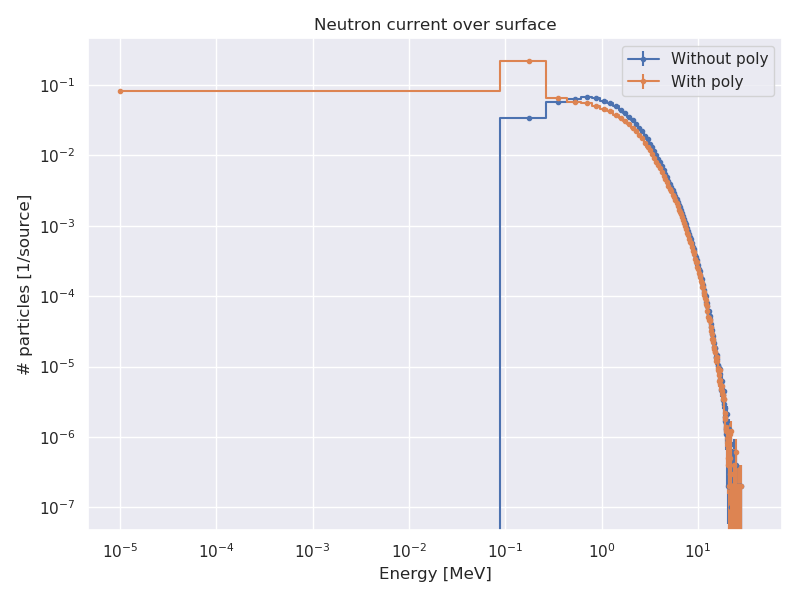
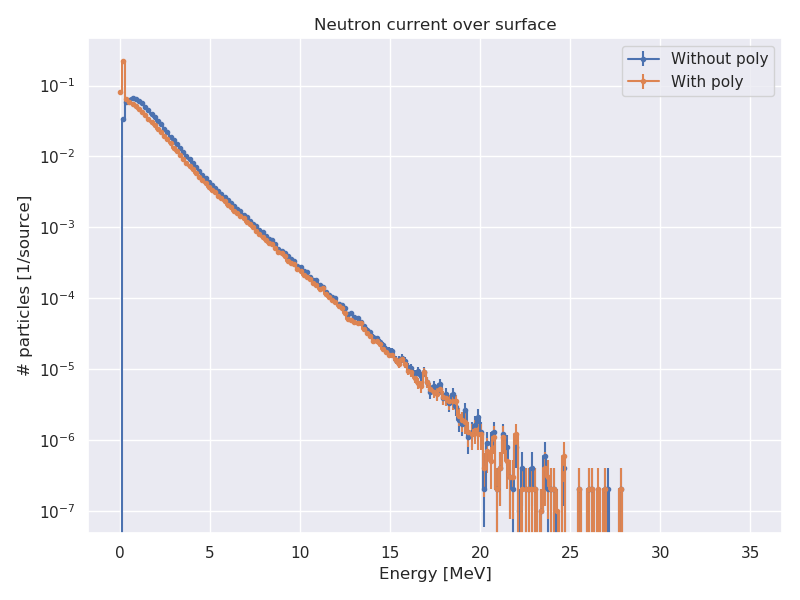
corrección escala

diff --git a/quenching_measurement/mcnp/lin_scale/grafica_diff.py b/quenching_measurement/mcnp/lin_scale/grafica_diff.py
@@ -55,7 +55,7 @@ if __name__ == '__main__':
     for ax, title in zip(axs, titles):
         ax.set_xlabel('Energy [MeV]')
         ax.set_ylabel(ylabel)
-        ax.set_xscale('log')
+        #ax.set_xscale('log')
         ax.set_yscale('log')
         # ax.set_xlim(lim)
         # ax.set_ylim(4e-6, 5e-4)
